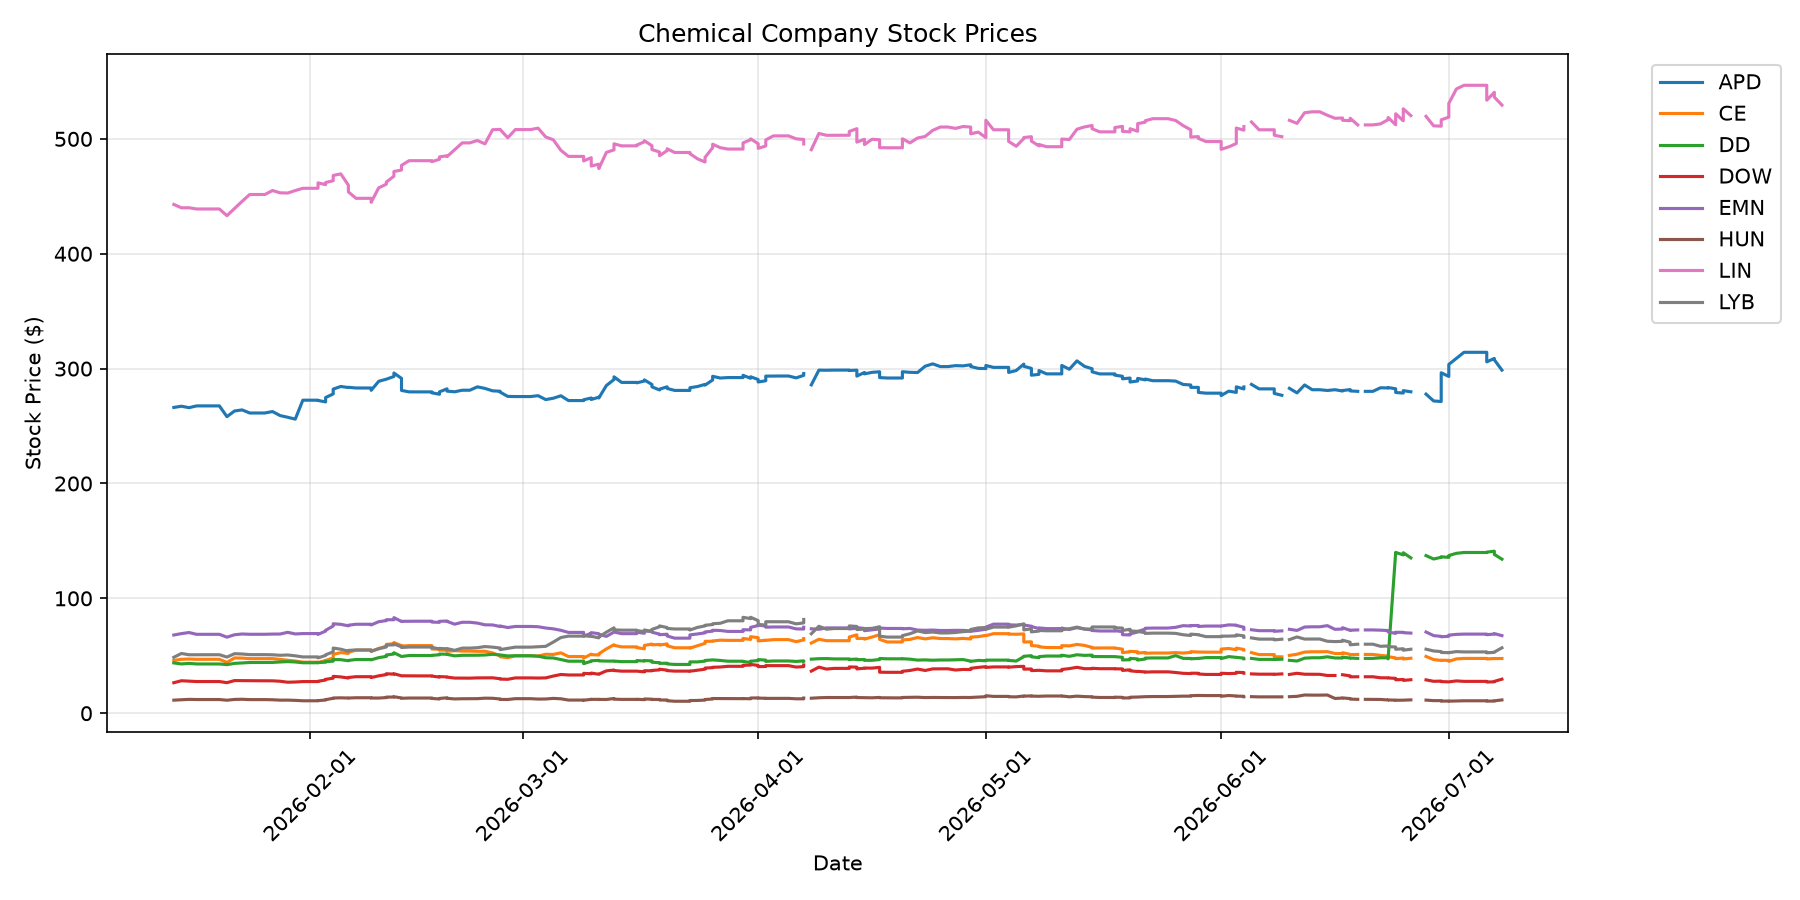
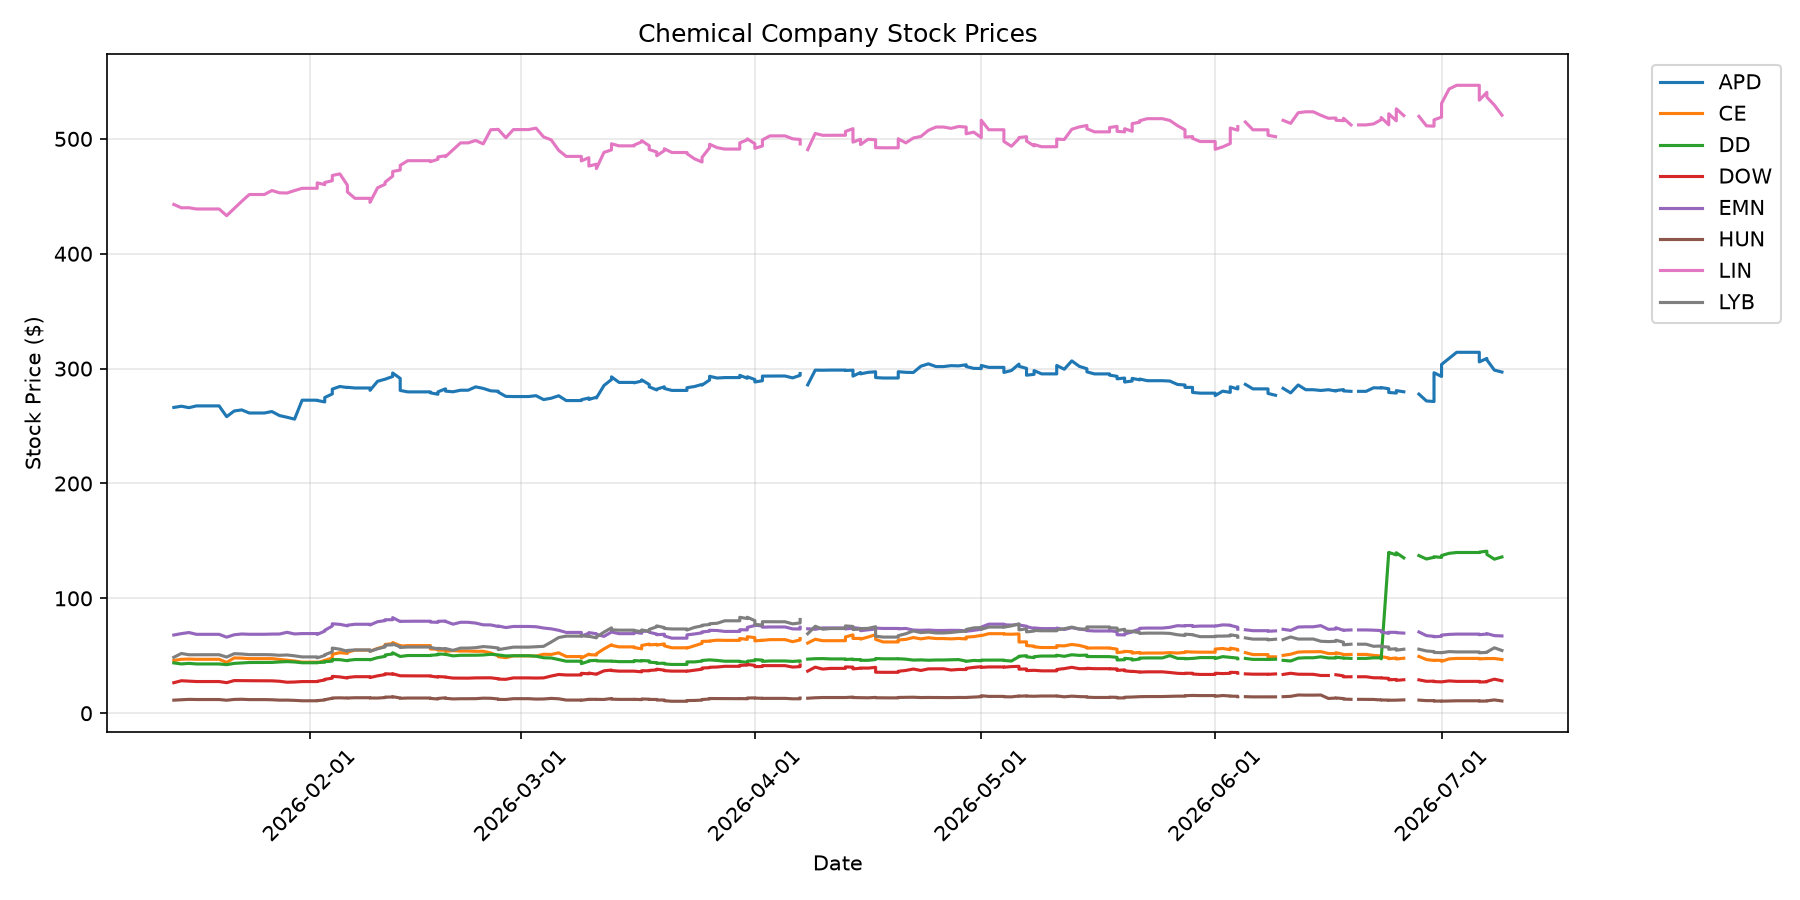
Daily price update: 2026-07-09

diff --git a/README.md b/README.md
@@ -2,29 +2,29 @@
 
 Automated daily tracking of chemical commodity prices and chemical company stocks.
 
-## Latest Prices (Updated: 2026-07-08)
+## Latest Prices (Updated: 2026-07-09)
 
 ### Energy Commodities
 
 | Commodity | Price | Change (24h) | Unit |
 |-----------|-------|--------------|------|
-| WTI Crude Oil | $75.77 | +5.33 (+7.57%) | $/barrel |
-| Brent Crude Oil | $80.21 | +6.05 (+8.16%) | $/barrel |
-| Natural Gas | $3.27 | +0.00 (+0.00%) | $/MMBtu |
-| Heating Oil | $3.75 | +0.45 (+13.65%) | $/gallon |
+| WTI Crude Oil | $72.22 | -1.30 (-1.77%) | $/barrel |
+| Brent Crude Oil | $76.65 | -1.37 (-1.76%) | $/barrel |
+| Natural Gas | $3.03 | -0.18 (-5.76%) | $/MMBtu |
+| Heating Oil | $3.57 | -0.09 (-2.38%) | $/gallon |
 
 ### Chemical Company Stocks
 
 | Company | Ticker | Price | Change (24h) |
 |---------|--------|-------|--------------|
-| Dow Inc. | DOW | $29.64 | +1.00 (+3.49%) |
-| LyondellBasell | LYB | $56.94 | +2.34 (+4.29%) |
-| DuPont | DD | $134.10 | -5.51 (-3.95%) |
-| Air Products | APD | $298.68 | -6.37 (-2.09%) |
-| Linde | LIN | $529.39 | -8.84 (-1.64%) |
-| Eastman Chemical | EMN | $67.54 | -2.08 (-2.99%) |
-| Celanese | CE | $47.61 | -1.07 (-2.20%) |
-| Huntsman | HUN | $11.56 | +0.59 (+5.42%) |
+| Dow Inc. | DOW | $28.23 | -0.81 (-2.77%) |
+| LyondellBasell | LYB | $54.61 | -1.11 (-2.00%) |
+| DuPont | DD | $136.04 | -0.93 (-0.68%) |
+| Air Products | APD | $297.00 | +0.25 (+0.08%) |
+| Linde | LIN | $520.62 | -7.05 (-1.34%) |
+| Eastman Chemical | EMN | $67.26 | +0.36 (+0.54%) |
+| Celanese | CE | $46.75 | -0.55 (-1.16%) |
+| Huntsman | HUN | $10.65 | -0.65 (-5.75%) |
 
 ## Data Sources
 

diff --git a/logs/update_log.md b/logs/update_log.md
@@ -291,3 +291,4 @@ Daily updates to the chemical engineering data repository.
 - **2026-07-07 00:00:04**: Updated 4 energy prices, 8 stocks, 0 FRED series
 - **2026-07-07 16:16:56**: Updated 4 energy prices, 8 stocks, 0 FRED series
 - **2026-07-08 15:56:20**: Updated 4 energy prices, 8 stocks, 0 FRED series
+- **2026-07-09 16:21:24**: Updated 4 energy prices, 8 stocks, 0 FRED series
